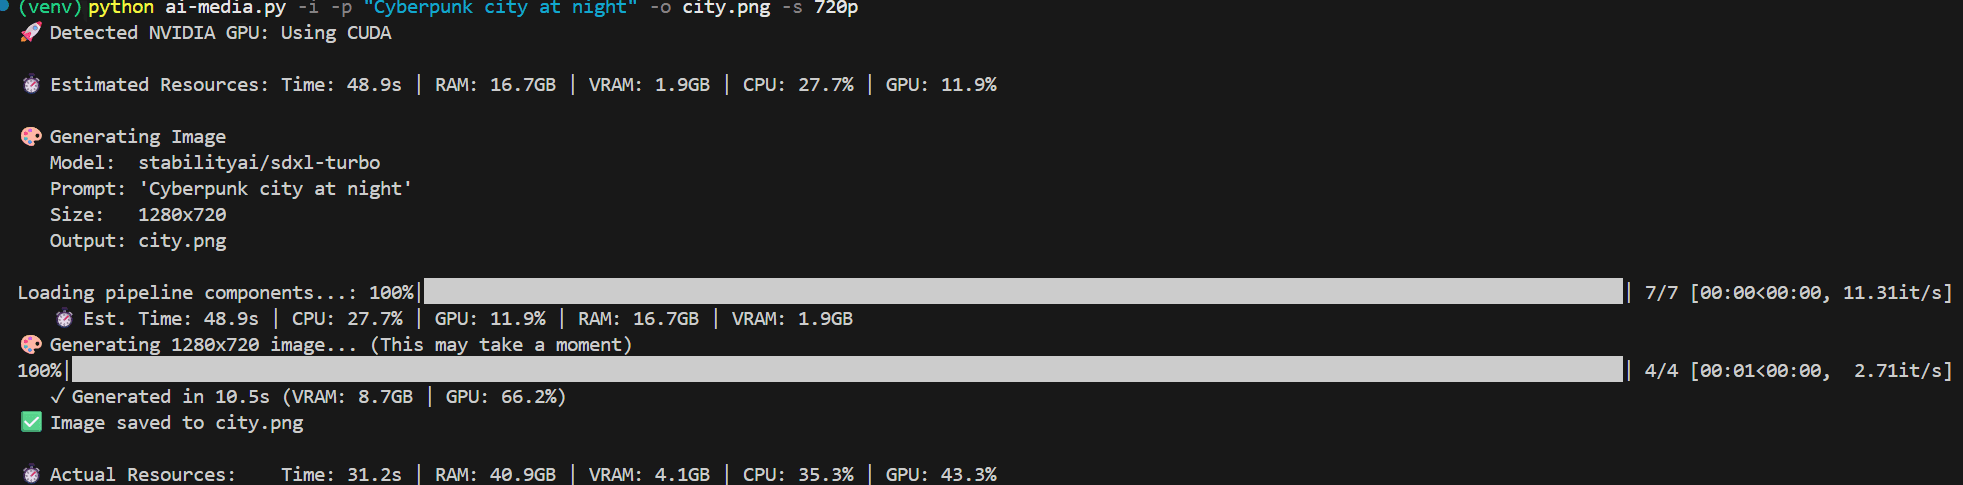
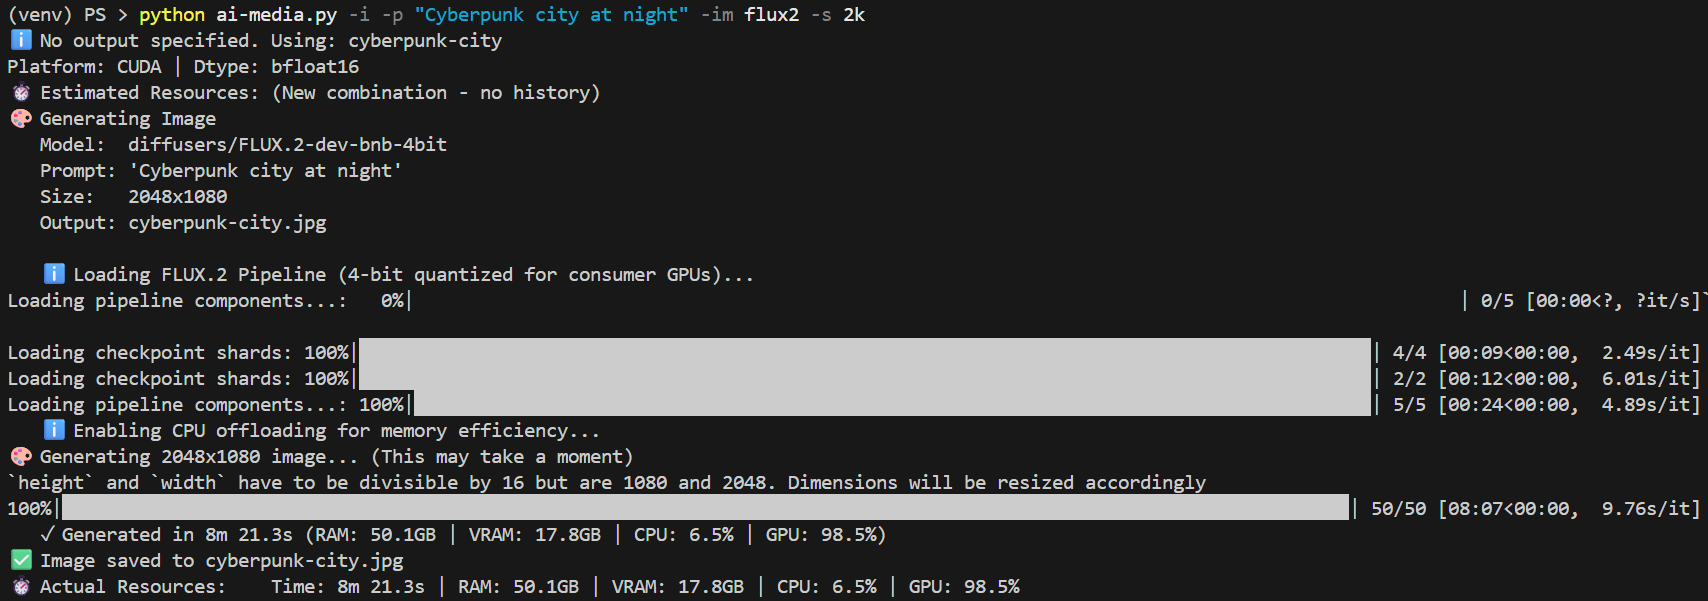
Update example images and fix issue with upscale

diff --git a/ai_media/generators/transform.py b/ai_media/generators/transform.py
@@ -66,7 +66,7 @@ def generate_edit(input_path, prompt, output_path, model_name="default",
             # SDXL InstructPix2Pix
             pipe = StableDiffusionXLInstructPix2PixPipeline.from_pretrained(
                 model_id,
-                dtype=dtype
+                torch_dtype=dtype
             ).to(device)
             # Default scales for SDXL are different
             if guidance_scale == 7.5:
@@ -82,7 +82,7 @@ def generate_edit(input_path, prompt, output_path, model_name="default",
                 
             pipe = StableDiffusionInstructPix2PixPipeline.from_pretrained(
                 model_id, 
-                dtype=dtype,
+                torch_dtype=dtype,
                 **kwargs
             ).to(device)
             

diff --git a/README.md b/README.md
@@ -186,7 +186,7 @@ The script `ai-media.py` serves as the main entry point, relying on feature modu
 
 **Example Output:**
 
-![Image Generation Example Result](screenshots/image-gen-result.png)
+![Image Generation Example Result](screenshots/image-gen-result.jpg)
 
 
 
